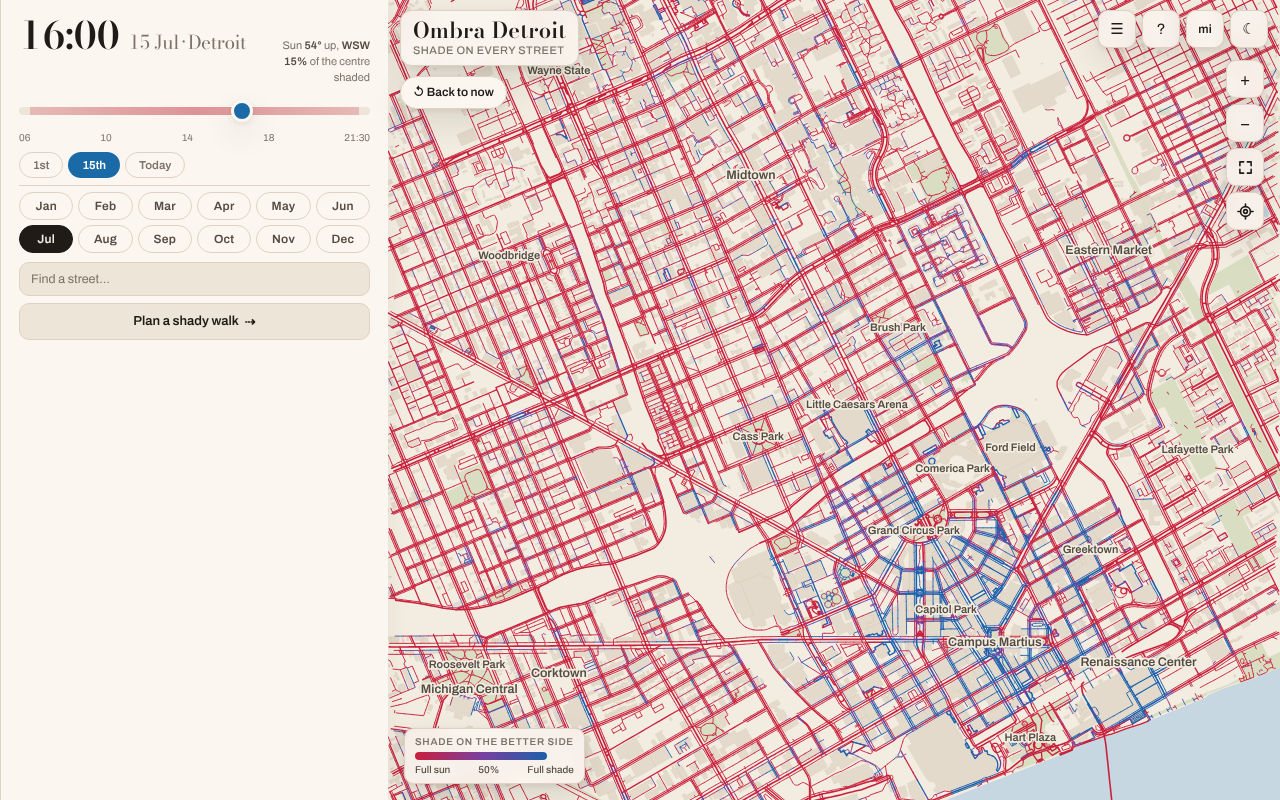
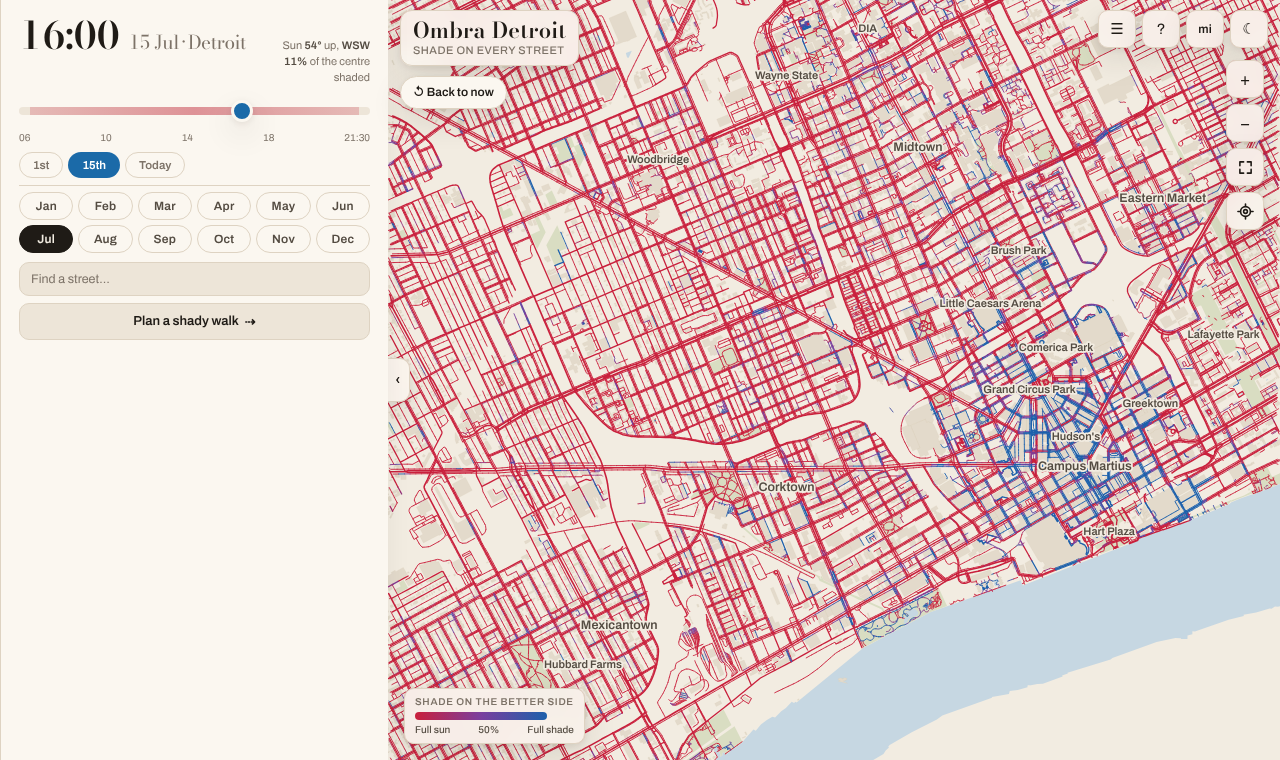
Re-measure for the wider map; new preview
measure_dates: today from the closest sun 1.36 pp (nearest date 2.89, 8.80
across the clock changes). Jitter probe: 99.70 % unmoved, city mean +0.02 pp.
Addresses: 2,846 in the city, estimates a median 11 m off, p90 39 m. Network
97.9 % connected, dead ends 5.9 %. CLAUDE.md, README and the methodology panel
carry the new figures.

Claude-Session: https://claude.ai/code/session_018QrZmCUndjZUTANi1o1wk9

diff --git a/web/template.html b/web/template.html
@@ -1574,8 +1574,8 @@ civil time, with daylight saving applied on the real US dates (8 March to 1 Nove
 <li>On every other day, the map works out where the sun really is and shows the stored
 moment with the sun closest to that — shade depends on where the sun is, not on the
 date. Checked against the real shade computed for the 8th and 23rd of every month, that
-is off by <b>1.5 points</b> on average; showing the nearest sampled date instead was off by
-3.0, and by 9.2 around the clock changes, when it answered with a sun an hour away.</li>
+is off by <b>1.4 points</b> on average; showing the nearest sampled date instead was off by
+2.9, and by 8.8 around the clock changes, when it answered with a sun an hour away.</li>
 </ul>
 
 <h3>Planning a walk</h3>
@@ -1586,7 +1586,7 @@ map, so you can type "Campus Martius", "Eastern Market" or "Woodward Avenue" rat
 hunting for a pixel. It also knows <b>__NADDR__ street addresses</b> from OpenStreetMap, so
 "1001 Woodward" lands on the building. A number nobody has mapped is placed between the
 mapped numbers either side of it on the same side of the street, and marked as an estimate:
-checked against the mapped ones, that is about <b>12&nbsp;m</b> off typically, 40&nbsp;m at worst
+checked against the mapped ones, that is about <b>11&nbsp;m</b> off typically, 39&nbsp;m at worst
 in nine cases of ten. An address that is not on this map simply isn't offered. <b>Pick on the map</b> is there for a doorway with no name — it tells
 you which street it landed on. <b>Use my location</b> reads your GPS, but only where the
 browser will hand it over: the copy of this page hosted on claude.ai runs inside a sandboxed
@@ -1658,8 +1658,8 @@ crow walks.</li>
 <li><b>The city-wide numbers are solid. A single street may not be.</b> 95% of the
 buildings carry a height from a survey, lidar or a tag; only __NIMP__, mostly sheds and
 garages, are estimated here, at about <b>4&nbsp;m</b> of error. Put that error back through
-the model and 99.75% of the map does not move at all. That test does not cover the
-heights that are themselves estimates upstream: the few hundred from Microsoft's ML model
+the model and 99.7% of the map does not move at all. That test does not cover the
+heights that are themselves estimates upstream: the several hundred from Microsoft's ML model
 can be badly wrong \u2014 it reads One Campus Martius, a mid-rise office tower, as
 26&nbsp;m \u2014 and a street beside one of those can be wrong with it. Ray blocking is a
 threshold, so a few metres either changes nothing or changes everything.</li>

diff --git a/CLAUDE.md b/CLAUDE.md
@@ -5,7 +5,7 @@ and the riverfront, plus shade-aware walking routes. A port of Ombra Roma
 (`ptrestler/ombra`), which it started as a copy of, history and all; that repo
 is separate and nothing here should touch it.
 
-Output is a **single self-contained HTML file** (~4.6 MB) with all data embedded:
+Output is a **single self-contained HTML file** (~6.6 MB) with all data embedded:
 no server, no network, works offline.
 
 ## Commands
@@ -22,7 +22,7 @@ make clean      # drop derived files, keep downloads
 ```
 
 `make` rebuilds `dist/ombra-detroit.html`. The expensive stage is `shade.py`
-(~7.5 min). Everything `make fetch` downloads is committed under `data/`.
+(~16 min on the wider map). Everything `make fetch` downloads is committed under `data/`.
 
 ## The city is `city.py`
 
@@ -82,7 +82,7 @@ so scripts run from any directory.
 | `terrain.py` | elevation tiles → 10 m grid, map bbox + 2 km margin | `build/terr.npy` |
 | `ground.py` | terrain smoothing (scored where the city has relief references), and the bare-earth check | `build/ground.npy` |
 | `build_dsm.py` | 2 m raster of building + canopy height above ground | `build/dsm.npy` |
-| `shade.py` | **the model.** 768 sun positions × ~28 k segments | `build/frames.npy` |
+| `shade.py` | **the model.** 768 sun positions × ~42 k segments | `build/frames.npy` |
 | `graph.py` | walking graph from segment geometry, junction-split | `build/graph.npz` |
 | `places.py` | searchable destinations, shortlist, map labels | `build/places_pack.json` |
 | `pack.py` | everything → one gzipped binary blob, base64 | `build/data.b64` |
@@ -141,7 +141,7 @@ there are a partial fetch, kept because they are correct.
 dropping them severed the walking network across ~300 squares (dead ends 17.9 %
 → 7.0 %, median detour 1.31 → 1.22 once included). Overture keeps them as
 `land_use` areas of subtype `pedestrian`, not as streets, so `fetch_overture.py`
-turns each one's outline into a `highway=pedestrian, area=yes` way (106 of them
+turns each one's outline into a `highway=pedestrian, area=yes` way (111 of them
 here) — plazas are modelled as their **perimeter**, so routes walk round a
 square, not across it.
 
@@ -149,7 +149,7 @@ square, not across it.
 Detroit–Windsor Tunnel is a `primary` road under the river to Canada, and it
 drew a red line into the water and gave the router a way across it. Overture
 says `denied` for `foot` along its whole length; `fetch_overture.py` drops
-every segment that does — 42 in this box, the tunnel's 4 among them, the rest
+every segment that does — 67 in this box, the tunnel's 4 among them, the rest
 mostly freeway service drives.
 
 **Towers are in `building:part`s, not in their outlines.** Downtown, the outline
@@ -211,17 +211,21 @@ in Rome, scrambling the estimated heights moved 5.9 % of the map by more than
 10 pp and the fixtures by at most 2 pp.
 
 **Heights: 95 % are carried, and the 5 % that are estimated are not like the
-rest — `make heights` is how you find out.** Of 4,888 buildings in the box,
-4,608 carry a height from Overture (Esri Community Maps 3,325, USGS lidar 685,
-Microsoft ML 330, OSM tags 268) and 25 a floor count only. The 255 left are
-small — median footprint 27 m² against 220 m² for the tagged — so scoring an
-estimate on *all* tagged buildings measures towers guessed from their
-neighbours (IDW 10.32 m RMSE), which is not the job. On the 2,145 tagged
-buildings with footprints like theirs (≤ 188 m²): IDW as shipped (k = 15,
-≤ 500 m, clip 7–34 m) 4.18 m, unclipped 4.32, per-type defaults 7.13, a flat
-5 m 4.61. So IDW stays, and `heights.INTERP_RMSE_M` is 4.18. Every number here
-comes out of `measure_heights.py`, which calls `heights.estimate_untagged` — the
-function the build runs. Never move one by eye.
+rest — `make heights` is how you find out.** Of 10,624 buildings in the box,
+10,063 carry a height from Overture (Esri Community Maps 7,060, USGS lidar
+1,580, Microsoft ML 805, OSM tags 618) and 25 a floor count only. The 536 left
+are small — median footprint 24 m² against 130 m² for the tagged: garages and
+sheds, most of them in Southwest Detroit — so scoring an estimate on *all*
+tagged buildings measures towers guessed from their neighbours (7.31 m RMSE),
+which is not the job. On the 1,649 tagged buildings with footprints like theirs
+(≤ 72 m²): IDW as shipped (k = 15, ≤ 500 m, clip 3–34 m) 4.40 m, bias +1.08;
+Rome's 7 m floor 4.68, bias +2.04, because it lifted every garage (better by
+0.28 m, bootstrap [−0.34, −0.24]); unclipped 4.56; per-type defaults 6.89; a
+flat 5 m 4.46 but 9.70 on all tagged. So `heights.INTERP_MIN_M` is 3 and
+`INTERP_RMSE_M` 4.40. Every number here comes out of `measure_heights.py`,
+which calls `heights.estimate_untagged` — the function the build runs. Never
+move one by eye; the floor moved because the map did, and the measurement said
+so.
 
 The ML heights are the weak point, and nothing here measures them: they count as
 carried, so the jitter probe does not move them. One Campus Martius, a mid-rise
@@ -231,8 +235,8 @@ the tags to score Esri, lidar and ML against.
 
 **`ground.py` checks bare earth, because a tower standing on itself would be
 invisible.** In the US the AWS terrain tiles come from USGS 3DEP, which is bare
-earth: under the 25 tallest tagged buildings (median 112 m) the ground reads
-−0.06 m against the ground 50–100 m round them, and `validate.py` holds that
+earth: under the 25 tallest tagged buildings (median 113 m) the ground reads
+−0.04 m against the ground 50–100 m round them, and `validate.py` holds that
 under 2 m. Rome's tiles were a surface model with the centro storico baked in
 (+12 m); that is what the relief-pair scoring in `ground.py` was for, and it only
 runs for a city that defines `RELIEF_POINTS`/`RELIEF_PAIRS`.
@@ -311,17 +315,17 @@ in `UIHIT`, so a tap on it is not also a map tap.
 address theme has 100,000 rows for Windsor and the Oakland County suburbs and
 none in the City of Detroit, so `fetch_osm.py --addresses` (one Overpass query,
 centres and tags only; `make fetch` runs it after either fetcher) writes
-`data/osm/extra_addr.json`, and `addresses.py` reads it into 2,540 addresses on
-228 streets. OSM writes one building's numbers many ways ("2462-2472",
+`data/osm/extra_addr.json`, and `addresses.py` reads it into 3,075 addresses on
+313 streets, 2,846 of them inside the city. OSM writes one building's numbers many ways ("2462-2472",
 "439;441", "3627-B"); all of them become a range. In the page, `searchAddr`
 answers "1001 woodward ave" or "1001 e jeff" (abbreviations spelled out, each
 typed word the start of a word of the name): a mapped number lands where it was
 mapped; an unmapped one is interpolated between the nearest mapped numbers of
 the same parity on the same street, at most `addresses.MAX_GAP` (200) apart, and
 is offered as an **estimated address**. `measure_addresses.py` scores that
-leave-one-out: a median 12 m off, p90 40 m, against p90 65 m with no limit. A
+leave-one-out: a median 11 m off, p90 39 m, against p90 68 m with no limit. A
 number with no neighbours in reach is not offered. The table rides in the header
-(`head.addr`), ~50 kB of page. A bare street as an end still lands at the
+(`head.addr`), ~60 kB of page. A bare street as an end still lands at the
 average of its points, which is why Woodward is not in the shortlist.
 
 **The "leaves the route most of the screen" checks run close to the line in a
@@ -377,11 +381,11 @@ what to tell anyone stuck on it.
 **Today is answered with the closest sun, not the nearest date.** The model
 samples the 1st and 15th; `measure_dates.py` scores ways of standing in for the
 8th and 23rd of every month against their real shade. For Detroit: the nearest
-sampled date at the same clock time is off by **3.00 pp** mean (3.91 % of
-street-frames by more than 20), and **9.15 pp** for the dates whose brackets
+sampled date at the same clock time is off by **2.89 pp** mean (3.67 % of
+street-frames by more than 20), and **8.80 pp** for the dates whose brackets
 straddle a clock change (early March, late October); the frame from *any* date
-whose sun is closest in the sky, **1.49 pp** (1.91 %), 1.89 across the changes;
-blending the two closest suns, 1.53. (Rome: 3.03, 12.9, 1.63, 1.67.) Shade
+whose sun is closest in the sky, **1.36 pp** (1.68 %), 1.71 across the changes;
+blending the two closest suns, 1.40. (Rome: 3.03, 12.9, 1.63, 1.67.) Shade
 depends on the sun's direction and nothing else in this model. `solarPos` in the
 template is `solar.py` line for line, and the smoke test holds it to the build's
 own sun on all 768 frames (0.005° worst) and to `city.tz_for` on every one.
@@ -401,9 +405,9 @@ stored as positions, not node numbers — every rebuild renumbers the nodes and 
 saved hotel would quietly move — and matched back within 25 m.
 
 **Churches are shown only where their hours can be read, and this build has
-none.** Overture carries no `opening_hours`, so 0 of the 99 places of worship in
-the box ship, the legend row stays hidden, and the methodology panel drops the
-line rather than saying "0 of 99". The feature is intact for a raw-OSM build:
+none.** Overture carries no `opening_hours`, so none of the city's places of
+worship ship, the legend row stays hidden, and the methodology panel drops the
+line rather than saying "0 of 167". The feature is intact for a raw-OSM build:
 `hours.py` parses a deliberate subset at build time and *refuses* the rest (Rome:
 59 of 63 tagged churches shipped). The smoke test still exercises the page's
 church logic — open or closed by day and hour, the stop that will be shut when
@@ -427,8 +431,8 @@ where the dry-stretch line does, and the line must stay one line on a phone:
 two pushes the card past half the map.
 All of that is Rome's measurement, with 460 fountains.
 
-**Detroit has no drinking fountains on the map, by decision.** The data has 14
-in the box; most walks passed none, and a water stop added distance without
+**Detroit has no drinking fountains on the map, by decision.** The data has
+14–15 in the box; most walks passed none, and a water stop added distance without
 shortening the dry stretch (one test walk: +0.46 mi, 1.85 → 1.82 mi). Nobody
 plans a Detroit walk round a fountain. `city.FOUNTAINS = False` makes `pack.py`
 leave out the `nax`/`nay` sections entirely, and every fountain path in the page
@@ -526,24 +530,25 @@ The header also carries `proj`, `place` (name, clock), `labels` (map labels in
 local metres), `netkm`, `bigpct`, `ntree`, `nrow`, `relief`, `hsrc` (where the
 known heights came from) and `source`, so the methodology panel counts rather
 than quotes. The boot and size figures above are Rome's; Detroit's file is
-4.6 MB and `measure_boot.mjs` has not been re-run for it.
+6.6 MB and `measure_boot.mjs` has not been re-run for it.
 
 ## Accuracy, measured
 
 | | |
 |---|---|
-| Bare earth under the towers | ground under the 25 tallest tagged buildings reads −0.06 m against 50–100 m round them |
-| Buildings in the box | 4,888 (by centroid); 4,608 carry a height, 25 a floor count, 255 estimated |
-| Height sources | Esri Community Maps 3,325, USGS lidar 685, Microsoft ML 330, OSM tags 268 |
-| Error of the estimate | IDW RMSE 4.18 m, MAE 2.49, bias +1.42 — leave-one-out on the 2,145 tagged buildings the size of the untagged |
-| Shade's sensitivity to that error | 99.75 % of segment-frames unmoved, city mean −0.01 pp; the 0.25 % that move, move by a median 25 pp. ML heights are not in this test |
-| Walking network | 42,334 links, ~867 km, 97.5 % one connected component, dead ends 6.7 % |
+| Bare earth under the towers | ground under the 25 tallest tagged buildings reads −0.04 m against 50–100 m round them |
+| Buildings in the box | 10,624 (by centroid); 10,063 carry a height, 25 a floor count, 536 estimated |
+| Height sources | Esri Community Maps 7,060, USGS lidar 1,580, Microsoft ML 805, OSM tags 618 |
+| Error of the estimate | IDW RMSE 4.40 m, bias +1.08 — leave-one-out on the 1,649 tagged buildings the size of the untagged |
+| Shade's sensitivity to that error | 99.70 % of segment-frames unmoved, city mean +0.02 pp; the 0.30 % that move, move by a median 20 pp. ML heights are not in this test |
+| Walking network | 61,565 links, ~1,330 km, 97.9 % one connected component, dead ends 5.9 % |
+| Addresses | 2,846 in the city; an estimated number is a median 11 m off, p90 39 m |
 | Sunrise/sunset vs published | to the minute at both solstices, 1 min on 20 March |
-| Today from the closest sun | 1.49 pp mean error (nearest date: 3.00) |
+| Today from the closest sun | 1.36 pp mean error (nearest date: 2.89) |
 
 **Height error does not average out, it concentrates** — in Rome, perturbing the
 estimated heights left 94.5 % of values bit-identical and moved the 5.5 % that
-did by more than 10 pp; here the same probe touches 0.25 %, all of it hard.
+did by more than 10 pp; here the same probe touches 0.30 %, all of it hard.
 Ray blocking is a threshold. Re-derive rather than copy:
 `OMBRA_JITTER=<seed> python build_dsm.py && python shade.py`, then
 `compare_frames.py` against a saved real `frames.npy`, then rebuild the real
@@ -551,7 +556,7 @@ grid. Call the scripts, not `make`, which would see nothing to rebuild.
 
 Not modelled: awnings, scaffolding, the People Mover's elevated track, parked
 trucks, cloud, humidity, or the heat off asphalt and parking lots. Tree canopy
-comes from 3,452 mapped trees and is patchy.
+comes from 4,264 mapped trees and is patchy.
 
 ## Possible next steps
 
@@ -559,14 +564,14 @@ comes from 3,452 mapped trees and is patchy.
   `SOURCE = "osm"`): church hours, street widths, wikidata for place ranking, and
   OSM height tags to score the Overture height sources against each other. Or
   keep Overture's heights and take only the tags from OSM.
-- **The ML heights.** 330 buildings carry Microsoft's estimate as if it were a
+- **The ML heights.** 805 buildings carry Microsoft's estimate as if it were a
   measurement. Scoring them needs a second height for the same buildings: OSM
   tags, or USGS 3DEP lidar point clouds directly.
 - **Re-measure what is still Rome's:** `measure_boot.mjs`, `measure_days.mjs`.
   (`measure_via.mjs` measures the water stop, which Detroit does not ship.)
-- **Wider coverage.** New Center, Woodbridge west of the Lodge, the east
-  riverfront to Belle Isle are just outside the box. File size is ~4.6 MB for
-  this one, far under the 16 MB artifact cap.
+- **Wider coverage.** New Center and the east riverfront to Belle Isle are just
+  outside the box. Widening it to Mexicantown took the file from 4.6 to 6.6 MB
+  and the shade run from 7.5 to 16 min; the artifact cap is 16 MB.
 
 ## Conventions
 

diff --git a/README.md b/README.md
@@ -38,7 +38,7 @@ top-level page rather than an embedded frame it can use your location.
 ## Just give me the file
 
 **[Download the page](https://github.com/ptrestler/ombra-detroit/releases/download/build/ombra-detroit.html)**
-— one self-contained 4.6 MB file, no build needed. Open it in any browser. It
+— one self-contained 6.6 MB file, no build needed. Open it in any browser. It
 works offline, and unlike the hosted copy it can use your location.
 
 That link is a release asset, rebuilt and replaced by CI on every push to
